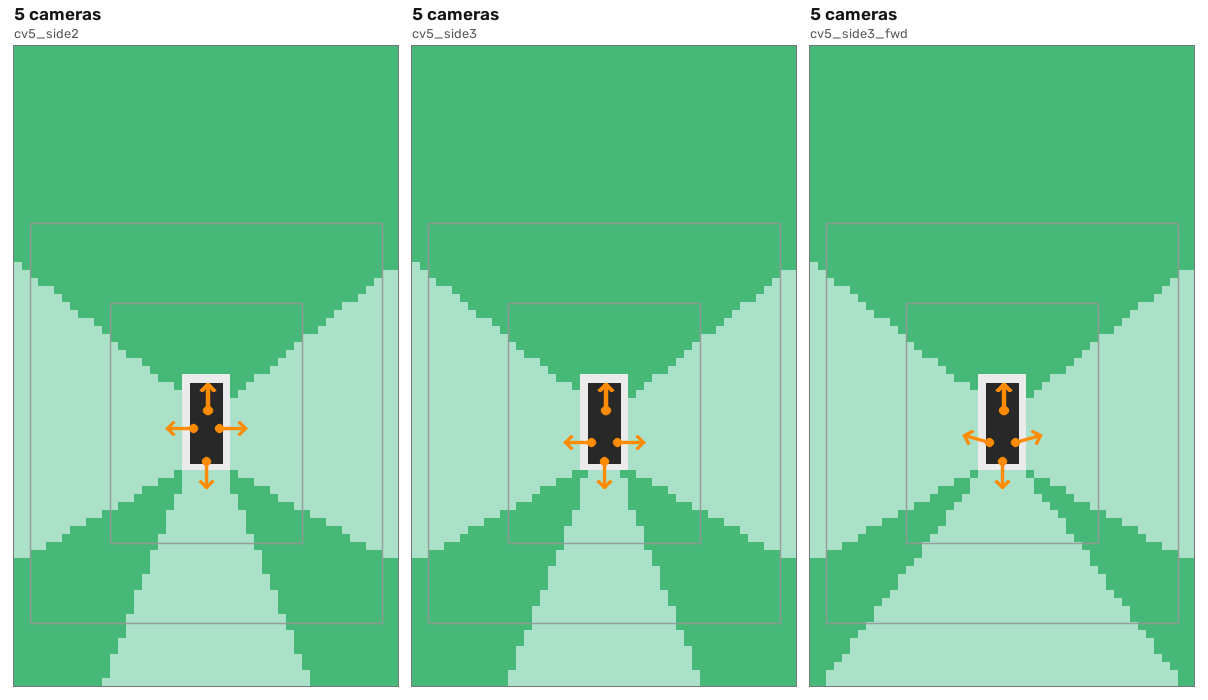
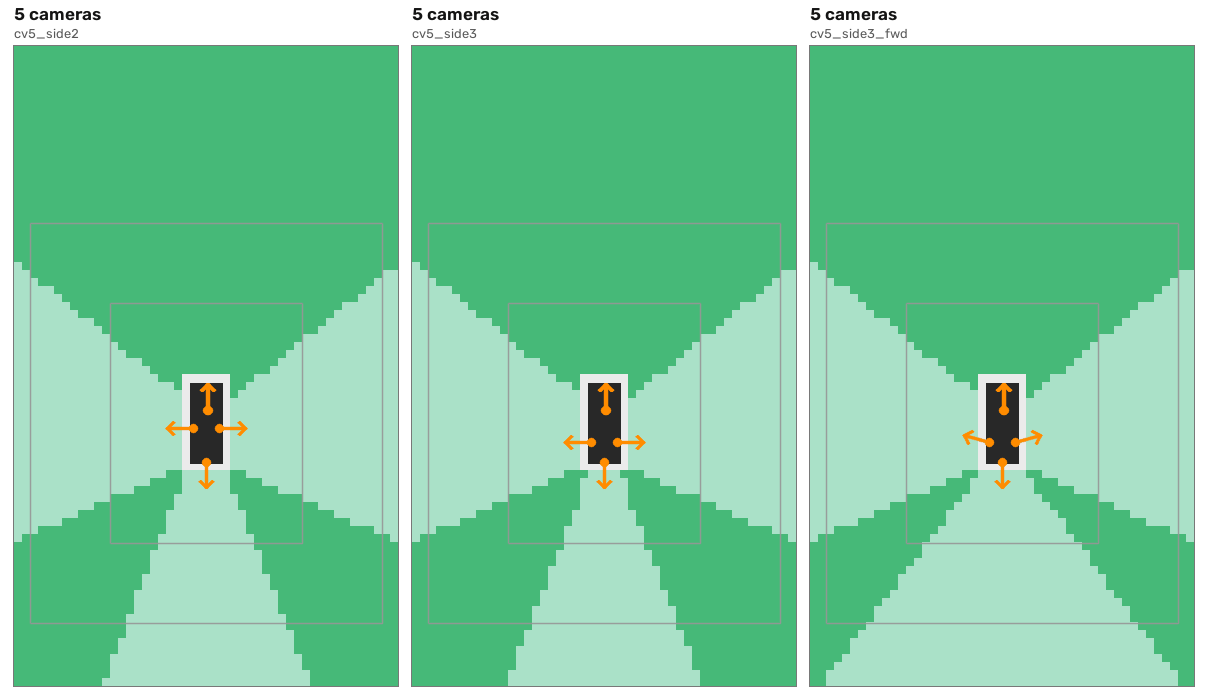
장착 자리별 가까이 본 그림 3장(전방, 좌우, 후방) 추가, 후방 카메라 자리를 부품 크기에 맞춰 옮기고 설정과 문서, 시뮬레이션 결과 고치기

diff --git a/realityview/layout_sim.py b/realityview/layout_sim.py
@@ -117,7 +117,7 @@ MOUNTS: dict[str, tuple[tuple[float, float, float], float, float]] = {
     # 기아 카니발 2011 롱바디(set_vehicle("carnival")와 함께 쓴다). 3D 모델에서 잰 자리다(20번 측정 문서).
     "cv_wind_wide": ((2.244, -0.125, 1.53), 0.0, 3.0),  # 룸미러 다리 오른쪽, 전방 광각
     "cv_wind_main": ((2.246, -0.065, 1.53), 0.0, 3.0),  # 룸미러 다리 오른쪽, 전방 메인
-    "cv_rear": ((-0.965, 0.00, 1.03), 180.0, 20.0),  # 번호판 홈 위 턱 아래
+    "cv_rear": ((-0.985, 0.00, 1.02), 180.0, 20.0),  # 번호판 홈 위 턱 아래
     "cv_side2": ((1.15, 0.816, 1.378), 90.0, 20.0),  # 2열 슬라이딩 도어 유리 앞쪽 안쪽
     "cv_side3": ((0.28, 0.812, 1.378), 90.0, 20.0),  # 3열 옆유리 안쪽
 }

diff --git a/docs/measurements/20_carnival_mount.md b/docs/measurements/20_carnival_mount.md
@@ -4,11 +4,11 @@
 
 ## 1. 결론
 
-카메라는 5대 그대로 둡니다. 카니발 차체와 아래 자리로 돌린 시뮬레이션에서 좌우를 3열 옆유리 안쪽에 단 배치는 차 둘레의 모든 칸을 한 대 이상이 보았고, 아홉 장면 전체에서 화면에 나온 비율이 0.916으로 모델 Y 기준 5대 배치(0.913)와 같은 수준이었습니다(6장).
+카메라는 5대 그대로 둡니다. 카니발 차체와 아래 자리로 돌린 시뮬레이션에서 좌우를 3열 옆유리 안쪽에 단 배치는 차 둘레의 모든 칸을 한 대 이상이 보았고, 아홉 장면 전체에서 화면에 나온 비율이 0.917로 모델 Y 기준 5대 배치(0.913)와 같은 수준이었습니다(6장).
 
-자리는 전방 광각과 전방 메인이 앞유리 안쪽 룸미러 다리 오른쪽, 후방이 테일게이트 번호판 홈의 위쪽 턱 아래(차 밖), 좌우가 3열 옆유리 안쪽입니다. 좌우를 2열 슬라이딩 도어 유리에 달면 문을 열 때마다 문이 뒤로 미끄러져 케이블이 움직이는 문과 차체 사이를 건너야 하고, 시뮬레이션의 후진 출차 장면에서도 3열 자리가 나았습니다(0.873과 0.794).
+자리는 전방 광각과 전방 메인이 앞유리 안쪽 룸미러 다리 오른쪽, 후방이 테일게이트 번호판 홈의 위쪽 턱 아래(차 밖), 좌우가 3열 옆유리 안쪽입니다. 좌우를 2열 슬라이딩 도어 유리에 달면 문을 열 때마다 문이 뒤로 미끄러져 케이블이 움직이는 문과 차체 사이를 건너야 하고, 시뮬레이션의 후진 출차 장면에서도 3열 자리가 나았습니다(0.874와 0.818).
 
-모델 Y 기준으로 잡았던 각도 가운데 가장 크게 달라지는 것은 좌우 케이스입니다. 카니발의 옆유리는 위쪽이 차 안쪽으로 약 20도 기울어 있어, 렌즈를 유리에 바로 붙이면 카메라는 20도 위를 봅니다. 설정대로 20도 아래를 보게 하려면 케이스의 쐐기각이 약 40도여야 합니다. 앞유리는 룸미러 높이에서 수평으로부터 약 30도 기울어 있어, 전방 카메라를 3도 아래로 보게 하는 브래킷은 유리면과 카메라 판 사이를 약 63도로 잡습니다(계산값).
+모델 Y 기준으로 잡았던 각도 가운데 가장 크게 달라지는 것은 좌우 케이스입니다. 카니발의 옆유리는 위쪽이 차 안쪽으로 약 20도 기울어 있어, 렌즈를 유리에 바로 붙이면 카메라는 20도 위를 봅니다. 설정대로 20도 아래를 보게 하려면 케이스의 쐐기각이 약 40도여야 합니다. 앞유리는 룸미러 높이에서 수평으로부터 약 30도, 브래킷을 붙이는 바닥 위 1.55~1.58m에서는 약 28도 기울어 있어, 전방 카메라를 3도 아래로 보게 하는 브래킷은 유리면과 카메라 판 사이를 약 65도로 잡습니다(계산값).
 
 라즈베리파이는 조수석 아래에 둡니다. 경로를 따라 잰 케이블 길이(여유 15% 포함)는 전방 약 3.8m, 좌우 약 2.8~3.8m, 후방 약 5.9m입니다. 그래서 전방 HDMI는 5m를 쓰고, 후방은 카메라 케이블 1m에 5m 리피터를 이으면 남는 길이가 거의 없어 리피터를 하나 더 준비합니다(7장).
 
@@ -33,11 +33,11 @@
 
 앞유리는 휘어 있어 높이마다 기울기가 다릅니다. 가운데 근처의 기울기는 수평에서 바닥 위 1.45m 높이 33.6도, 1.50m 32.8도, 1.53m 29.8도, 1.56m 28.4도입니다. 모델의 앞유리는 평평한 면 조각을 이어 만든 것이라 1.52m와 1.60m 높이에서 기울기가 33.6도, 28.4도, 24.4도로 꺾이고, 위 값은 둘레 3cm를 평균한 것입니다. 실제 유리는 이 사이를 매끈하게 잇는 곡면이라 1.53m에서는 약 30도로 봅니다. 룸미러는 거울 몸체가 X 2.11~2.21m, Y −0.10~0.11m, Z 1.49~1.56m에 있고, 다리는 유리에 붙는 곳에서 Y −0.020~0.016m, Z 1.52~1.55m입니다.
 
-전방 2대는 다리 오른쪽(조수석 쪽)에 메인을 안쪽, 광각을 바깥쪽으로 6cm 간격을 두고 바닥 위 1.53m에 둡니다. 좌표는 메인 (2.246, −0.065, 1.53), 광각 (2.244, −0.125, 1.53)이고 렌즈 중심은 유리에서 약 1cm 안쪽입니다. 메인을 다리에 더 붙이지 않는 것은 차광 후드 때문입니다. 메인의 시선이 유리를 지나는 범위는 다리 높이에서 카메라 왼쪽 4.2cm까지 퍼지므로, 메인을 차 가운데에서 4.5cm 오른쪽에 두면 후드 왼쪽 벽이 다리에 걸립니다. 6.5cm 오른쪽에 두면 그 범위가 Y −0.023m에서 끝나 다리(Y −0.020m부터)와 3mm 떨어집니다.
+전방 2대는 다리 오른쪽(조수석 쪽)에 메인을 안쪽, 광각을 바깥쪽으로 6cm 간격을 두고 바닥 위 1.53m에 둡니다. 좌표는 메인 (2.246, −0.065, 1.53), 광각 (2.244, −0.125, 1.53)이고 렌즈 중심은 유리에서 약 1cm 안쪽입니다. 실제 차에서는 룸미러 다리의 오른쪽 면과 앞유리 위쪽 검은 띠를 기준으로 자리를 잡습니다. 다리 오른쪽 면(Y −0.020m)에서 메인 렌즈 중심까지 4.5cm, 브래킷 패드 왼쪽 끝까지 2.2cm이고, 패드 위 끝은 검은 띠의 아래 끝(바닥 위 약 1.58m)에서 유리를 따라 8mm 아래입니다. 패드는 유리를 따라 6.4cm입니다. 메인을 다리에 더 붙이지 않는 것은 차광 후드 때문입니다. 메인의 시선이 유리를 지나는 범위는 다리 높이에서 카메라 왼쪽 4.2cm까지 퍼지므로, 메인을 차 가운데에서 4.5cm 오른쪽에 두면 후드 왼쪽 벽이 다리에 걸립니다. 6.5cm 오른쪽에 두면 그 범위가 Y −0.023m에서 끝나 다리(Y −0.020m부터)와 3mm 떨어집니다.
 
 메인은 화면의 0.4%만 보닛 끝에 가리고, 화면 가운데 세로줄에서 바닥은 앞범퍼 앞 1.9m부터 보입니다. 광각은 화면 아래쪽 18%가 가려지고 바닥은 앞범퍼 앞 1.8m부터 보입니다. 가려진 18% 가운데 약 10%는 유리 너머의 보닛과 와이퍼 자리이고, 약 7%는 유리보다 가파르게 내려가 유리를 지나지 않는 시선이 닿는 대시보드 윗면입니다. 앞범퍼 바로 앞을 보지 못하는 것은 19번 측정 4.4절의 모델 Y와 같은 성질입니다.
 
-앞유리 자리의 약점은 유리를 비스듬히 지나는 시선이 많다는 것입니다. 유리에 75도보다 비스듬히 들어가는 시선이 메인 화면의 21%, 광각 화면의 32%이고 대부분 화면 아래쪽입니다. 이 각도에서는 유리 반사가 커져 대시보드가 화면에 비치기 쉬우므로 차광 후드를 꼭 둡니다. 후드 바닥판은 렌즈 아래 끝에서 시작해 메인 화면의 아래 끝 시선(수평에서 약 24도 아래)을 따라 내려가 유리에 닿게 만듭니다. 바닥판을 수평으로 두면 화면 아래쪽을 가립니다. 이 바닥판은 메인 화면을 가리지 않고, 광각은 화면 아래 두 모서리에서 차 앞 양옆의 바닥을 보는 시선(화면의 약 2%)을 가립니다. 이 시선은 모두 유리에 75도보다 비스듬히(가운데값 86도) 들어가 반사가 큰 곳이라 잃는 것이 적습니다. 나머지 길과 하늘을 보는 시선이 유리를 지나는 곳은 렌즈 앞 유리 점에서 경사를 따라 아래로 메인이 6.2cm 안(98%는 5.2cm 안), 광각이 12.8cm 안(98%는 7.1cm 안)입니다. 그래서 후드가 유리에 닿는 면은 경사 방향으로 약 10cm, 좌우로 약 20cm로 잡습니다. 이 범위 밖에서 유리를 지나는 광각의 시선은 화면의 1% 미만입니다.
+앞유리 자리의 약점은 유리를 비스듬히 지나는 시선이 많다는 것입니다. 유리에 75도보다 비스듬히 들어가는 시선이 메인 화면의 21%, 광각 화면의 32%이고 대부분 화면 아래쪽입니다. 이 각도에서는 유리 반사가 커져 대시보드가 화면에 비치기 쉬우므로 차광 후드를 꼭 둡니다. 후드 바닥판은 렌즈 아래 끝에서 시작해 메인 화면의 아래 끝 시선(수평에서 약 24도 아래)을 따라 내려가 유리에 닿게 만듭니다. 바닥판을 수평으로 두면 화면 아래쪽을 가립니다. 이 바닥판은 메인 화면을 가리지 않고, 광각은 화면 아래 두 모서리에서 차 앞 양옆의 바닥을 보는 시선(화면의 약 2%)을 가립니다. 이 시선은 모두 유리에 75도보다 비스듬히(가운데값 86도) 들어가 반사가 큰 곳이라 잃는 것이 적습니다. 나머지 길과 하늘을 보는 시선이 유리를 지나는 곳은 렌즈 앞 유리 점에서 경사를 따라 아래로 메인이 6.2cm 안(98%는 5.2cm 안), 광각이 12.8cm 안(98%는 7.1cm 안)입니다. 그래서 후드가 유리에 닿는 면은 경사 방향으로 약 10cm, 좌우로 먼 끝에서 약 25cm로 잡습니다. 후드 왼쪽 벽은 룸미러 다리와 가장 가까운 곳에서 약 6.5mm 떨어집니다. 이 범위 밖에서 유리를 지나는 광각의 시선은 화면의 1% 미만입니다.
 
 유리 기울기가 높이마다 달라 브래킷 각도는 실제로 붙일 자리(바닥 위 약 1.55m)에서 휴대폰 수평계로 잰 값으로 정합니다. 룸미러 뒤에 레인 센서나 블랙박스가 있는지는 확인 필요이고, 있으면 그 자리를 피해 오른쪽으로 옮기고 옮긴 만큼 설정 파일 좌표를 바꿉니다.
 
@@ -45,7 +45,7 @@
 
 2열 슬라이딩 도어 유리와 3열 옆유리는 모두 위쪽이 차 안쪽으로 기울어 있습니다. 바닥 위 1.38m에서 잰 유리 바깥 방향 법선은 수평보다 20.5도(3열, X 0.28m), 20.9도(2열, X 1.15m) 위를 향합니다. 그래서 렌즈를 유리에 바로 붙이면 카메라는 약 20도 위를 보고, 설정의 20도 아래를 보게 하려면 카메라 축을 유리 법선에서 40.5도 아래로 돌려야 합니다. 10도 아래면 30.5도, 수평이면 20.6도입니다. 옆유리는 위로 갈수록 더 기울어 3열 유리 가운데에서 바닥 위 1.20m는 약 13도, 1.60m는 약 30도이고, 높이 1cm마다 약 0.4도씩 바뀝니다. 그래서 쐐기각은 실제로 붙일 높이에서 휴대폰 수평계로 잰 유리 기울기에 숙일 각도를 더해 정합니다.
 
-3열 옆유리에서 실내 기둥 내장재에 가리지 않는 투명한 부분은 X −0.35~0.35m, Z 1.22~1.58m이고, 2열 슬라이딩 도어 유리는 X 0.60~1.25m입니다. 좌우 카메라는 3열 유리 가운데쯤인 X 0.28m, 바닥 위 1.38m에 둡니다. 렌즈 중심의 Y는 ±0.812m입니다.
+3열 옆유리에서 검은 테두리와 실내 내장재에 가리지 않는 투명한 부분은 바닥 위 1.38m 높이에서 X −0.43~0.375m이고, X 0.28m에서는 바닥 위 1.20~1.61m입니다. 2열 슬라이딩 도어 유리는 X 0.60~1.25m입니다. 좌우 카메라는 3열 유리 앞쪽인 X 0.28m, 바닥 위 1.38m에 둡니다. 렌즈 중심의 Y는 ±0.812m입니다. 실제 차에서는 차 안에서 보이는 유리 끝(검은 테두리의 안쪽 끝)을 기준으로, 렌즈 자리를 앞 끝에서 9.5cm 뒤, 아래 끝에서 유리를 따라 18.5cm 위(위 끝까지 24.7cm)로 잡습니다.
 
 | 숙인 각 | 쐐기각 | 바닥이 보이는 곳 | 75도 넘게 비스듬한 시선 |
 |---|---|---|---|
@@ -65,9 +65,9 @@
 
 테일게이트의 번호판 홈은 평평한 뒷벽이 X −0.93m, 바닥 위 0.88~1.06m에 있고, 그 아래는 아래쪽 턱(Z 0.80m)까지 비스듬히 내려가는 바닥입니다. 홈의 폭은 입구 기준으로 위쪽 약 0.90m, 아래쪽 약 0.84m이고, 뒷벽이 평평한 부분은 가운데 약 0.50m입니다. 위쪽 턱의 아랫면은 바닥 위 1.064m이고, 턱 끝은 X −0.999m라 뒷벽에서 약 7cm 나와 있습니다. 턱 끝에는 밝은 장식(Z 1.07~1.09m)이 있고 그 위에 KIA 엠블럼이 있습니다.
 
-후방 카메라는 이 턱 아래 가운데 (−0.965, 0, 1.03)에 두고 뒤를 보며 20도 숙입니다. 렌즈는 뒷벽에서 약 3cm 뒤, 턱 아랫면에서 약 3cm 아래입니다. 20도 쐐기를 홈 뒷벽에 붙이고 카메라를 쐐기에 붙이는 방식입니다. 이 자리에서 차체가 가리는 것은 화면 아래 두 모서리의 뒤범퍼 윗면으로 화면의 0.4%이고, 턱 끝은 카메라 축에서 위로 약 65도에 있어 화면에 들어오지 않습니다. 바닥은 뒤범퍼 뒤 0.50m부터 보입니다. 턱이 렌즈 위를 덮어 비가림이 되므로 따로 차양을 달지 않습니다.
+후방 카메라는 이 턱 아래 가운데 (−0.985, 0, 1.02)에 두고 뒤를 보며 20도 숙입니다. 20도 쐐기를 홈 뒷벽에 붙이고 카메라를 쐐기에 붙이는 방식이라, 쐐기와 카메라 케이스, 렌즈 길이만큼 렌즈가 뒷벽에서 나옵니다. 쐐기는 높이 4.6cm, 두께가 아래 끝 3mm에서 위 끝 약 2.1cm이고 위 끝을 턱 아랫면 6mm 밑에 둡니다. 카메라 케이스를 40x40x26mm, 렌즈 돌출을 16.5mm로 잡으면(확인 필요) 렌즈 앞면은 뒷벽에서 약 5.4cm 뒤, 턱 아랫면에서 약 4.4cm 아래, 턱 끝보다 약 1.4cm 안쪽입니다(계산값). 이 자리에서 차체가 가리는 것은 화면 아래 두 모서리의 뒤범퍼 윗면으로 화면의 0.1%이고, 턱 끝은 카메라 축에서 위로 약 94도에 있어 화면에 들어오지 않습니다. 바닥은 뒤범퍼 뒤 0.51m부터 보입니다. 바로 위에서 떨어지는 비는 턱이 막지만, 렌즈가 턱 끝 가까이 나와 있어 수직에서 약 18도보다 더 기울어 뒤에서 들이치는 비는 렌즈에 닿을 수 있습니다(계산값). 그래서 차양은 처음에 달지 않고, 비 오는 날 렌즈에 물방울이 남는지 본 뒤 덧답니다.
 
-카메라는 번호판 위 끝과 턱 아랫면 사이의 틈에 들어가야 합니다. 그림은 긴 번호판을 홈 가운데보다 조금 아래(위 끝 Z 0.995m)에 그린 것으로, 이때 틈은 약 7cm입니다. 모델에는 번호판과 번호등이 없어, 번호판 종류(긴 번호판 또는 짧은 번호판)와 실제 높이, 번호등 자리, 카메라 케이스와 쐐기가 이 틈에 들어가는지는 확인 필요입니다.
+카메라는 번호판 위 끝과 턱 아랫면 사이의 틈에 들어가야 합니다. 그림은 긴 번호판을 홈 가운데보다 조금 아래(위 끝 Z 0.995m)에 그린 것으로, 이때 틈은 약 7cm입니다. 턱 아랫면에서 케이스 아래 끝까지는 약 5.7cm라 케이스와 번호판 사이는 약 1.2cm 남습니다. 렌즈가 뒷벽에서 나와 있어 위에서 30도로 내려다보면 렌즈 아래 끝이 번호판 위쪽 약 0.8cm를 덮습니다(계산값). 모델에는 번호판과 번호등이 없어, 번호판 종류(긴 번호판 또는 짧은 번호판)와 실제 높이, 번호등 자리, 카메라 케이스와 쐐기가 이 틈에 들어가는지는 확인 필요입니다.
 
 ## 6. 카니발 차체로 돌린 카메라 대수 시뮬레이션
 
@@ -80,14 +80,14 @@
 | 배치 | 화면에 나온 비율 | 후진 출차 | 분당 끊김 | 분당 ID 바뀜 |
 |---|---|---|---|---|
 | c5_side160(모델 Y) | 0.913 | 0.846 | 6.72 | 12.4 |
-| cv5_side2 | 0.912 | 0.794 | 6.69 | 12.0 |
-| cv5_side3 | 0.916 | 0.873 | 6.18 | 12.5 |
-| cv5_side3_fwd | 0.916 | 0.871 | 6.54 | 14.8 |
+| cv5_side2 | 0.915 | 0.818 | 6.33 | 12.2 |
+| cv5_side3 | 0.917 | 0.874 | 6.41 | 12.1 |
+| cv5_side3_fwd | 0.917 | 0.873 | 6.58 | 14.5 |
 | cv5_side3(10도) | 0.916 | 0.874 | 6.26 | 12.4 |
 
 화면에 나온 비율은 아홉 장면 전체에서 탑뷰 범위 안의 물체가 화면에 나온 비율이고, 후진 출차는 그 가운데 주차 칸에서 뒤로 빠지는 장면(backout)의 값입니다. 분당 끊김은 1초 넘게 화면에서 사라진 횟수입니다. 세 검출 모형(easy, base, hard)을 합친 값이고 FPS는 배치별 모형 FPS(13.5)입니다.
 
-3열 자리는 전체 비율, 후진 출차, 끊김에서 2열 자리보다 나았고, 교차로 정지 장면(cross)은 2열이 나았습니다(0.960과 0.937). 3열 자리를 앞으로 15도 돌리면 전체 비율은 같고 ID 바뀜이 분당 12.5회에서 14.8회로, 한 물체가 두 번 그려지는 시간이 분당 9.5초에서 18.4초로 늘어 정측면(yaw ±90도)을 그대로 둡니다. 10도와 20도는 거의 같았습니다. 앞쪽 25~40m의 물체가 화면에 나온 비율은 카니발 배치가 0.525, 모델 Y가 0.508입니다.
+3열 자리는 전체 비율과 후진 출차에서 2열 자리보다 나았고, 분당 끊김은 거의 같았습니다. 교차로 정지 장면(cross)은 2열이 나았습니다(0.960과 0.938). 3열 자리를 앞으로 15도 돌리면 전체 비율은 같고 ID 바뀜이 분당 12.1회에서 14.5회로, 한 물체가 두 번 그려지는 시간이 분당 9.7초에서 18.0초로 늘어 정측면(yaw ±90도)을 그대로 둡니다. 10도와 20도는 거의 같았습니다. 앞쪽 25~40m의 물체가 화면에 나온 비율은 카니발 배치가 0.525, 모델 Y가 0.508입니다.
 
 ## 7. 배선 경로와 길이
 

diff --git a/docs/progress.md b/docs/progress.md
@@ -45,7 +45,7 @@
 
 차에 달 카메라는 5대로 정했습니다. 앞유리 안쪽의 전방 광각과 전방 메인은 CSI로 달고, 후방(번호판 위)과 좌우는 대각 160도 USB 카메라로 답니다. 좌우는 B필러 자리(카니발에서는 3열 옆유리 안쪽)에서 옆을 정면으로 보고, 후방은 차 밖이라 방수 처리가 필요합니다. 지금의 2대와 4대에서 8대까지 모두 22개 배치를 아홉 장면에 넣어 비교한 시뮬레이션에서, 이 5대는 차를 한 바퀴 도는 사람을 끊김 없이 같은 ID로 따라갔고 물체가 화면에 나온 비율(표시 비율)은 8대보다 1.2%p 낮았습니다(0.913과 0.926). 앞범퍼 2.4m 안의 사람 위치, 뒤에서 차 사이로 오는 오토바이, 옆 차 너머의 보행자는 5대가 약한 곳입니다. 결과는 [19번 측정](measurements/19_camera_count_sim.md), 설정은 [configs/five_cam.yaml](../configs/five_cam.yaml), 제품과 판매처는 [06 문서](06_pi5_camera_selection.md)에 있습니다.
 
-차량이 기아 카니발 2011이라, 같은 차종의 공개 3D 모델을 공식 제원 크기에 맞춰 카메라 자리와 각도, 케이블 길이를 쟀습니다. 모델은 롱바디(축거 3,020mm)와 맞았습니다. 자리는 전방 2대가 앞유리 안쪽 룸미러 다리 오른쪽(바닥 위 1.53m), 좌우가 3열 옆유리 안쪽, 후방이 번호판 홈의 위쪽 턱 아래(차 밖)입니다. 옆유리가 위쪽으로 약 20도 기울어 있어 좌우 케이스는 약 40도 쐐기가 되고, 앞유리 브래킷은 유리면과 카메라 판 사이를 약 63도로 잡습니다. 이 자리로 시뮬레이션을 다시 돌려도 5대로 충분했습니다(표시 비율 0.916, 모델 Y 기준 0.913). 파이는 조수석 아래에 두고, 전방 HDMI는 5m를 쓰며, 후방 USB는 약 5.9m라 리피터를 하나 더 준비합니다. 결과는 [20번 측정](measurements/20_carnival_mount.md), 설정은 [configs/five_cam_carnival.yaml](../configs/five_cam_carnival.yaml), 장착 방법은 [07 문서](07_vehicle_mount_and_training_plan.md)에 있습니다.
+차량이 기아 카니발 2011이라, 같은 차종의 공개 3D 모델을 공식 제원 크기에 맞춰 카메라 자리와 각도, 케이블 길이를 쟀습니다. 모델은 롱바디(축거 3,020mm)와 맞았습니다. 자리는 전방 2대가 앞유리 안쪽 룸미러 다리 오른쪽(바닥 위 1.53m), 좌우가 3열 옆유리 안쪽, 후방이 번호판 홈의 위쪽 턱 아래(차 밖)입니다. 옆유리가 위쪽으로 약 20도 기울어 있어 좌우 케이스는 약 40도 쐐기가 되고, 앞유리 브래킷은 유리면과 카메라 판 사이를 약 65도로 잡습니다. 이 자리로 시뮬레이션을 다시 돌려도 5대로 충분했습니다(표시 비율 0.917, 모델 Y 기준 0.913). 파이는 조수석 아래에 두고, 전방 HDMI는 5m를 쓰며, 후방 USB는 약 5.9m라 리피터를 하나 더 준비합니다. 결과는 [20번 측정](measurements/20_carnival_mount.md), 설정은 [configs/five_cam_carnival.yaml](../configs/five_cam_carnival.yaml), 장착 방법은 [07 문서](07_vehicle_mount_and_training_plan.md)에 있습니다.
 
 ## 장비 구성
 
